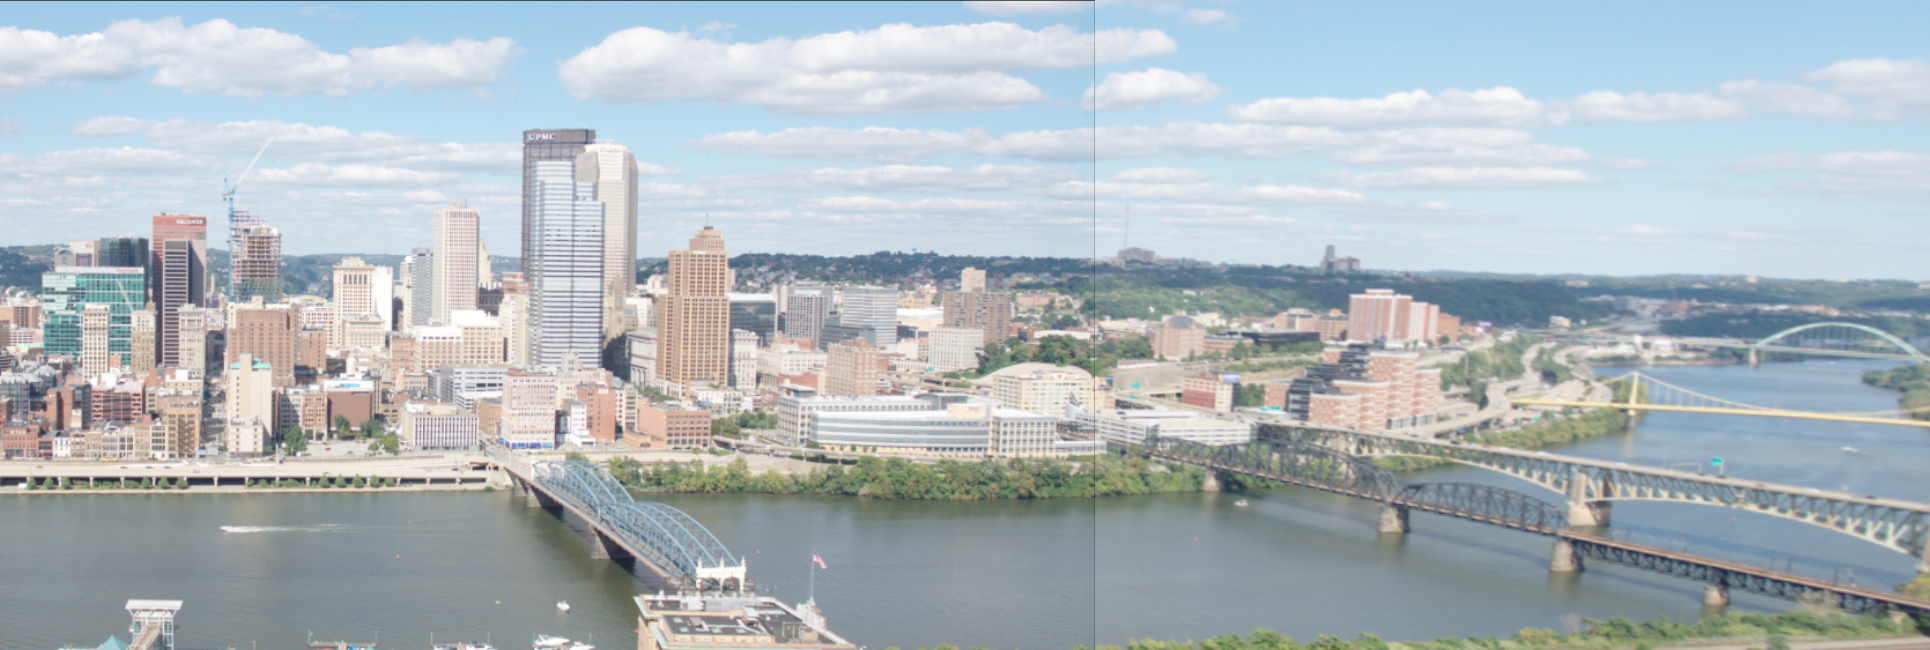
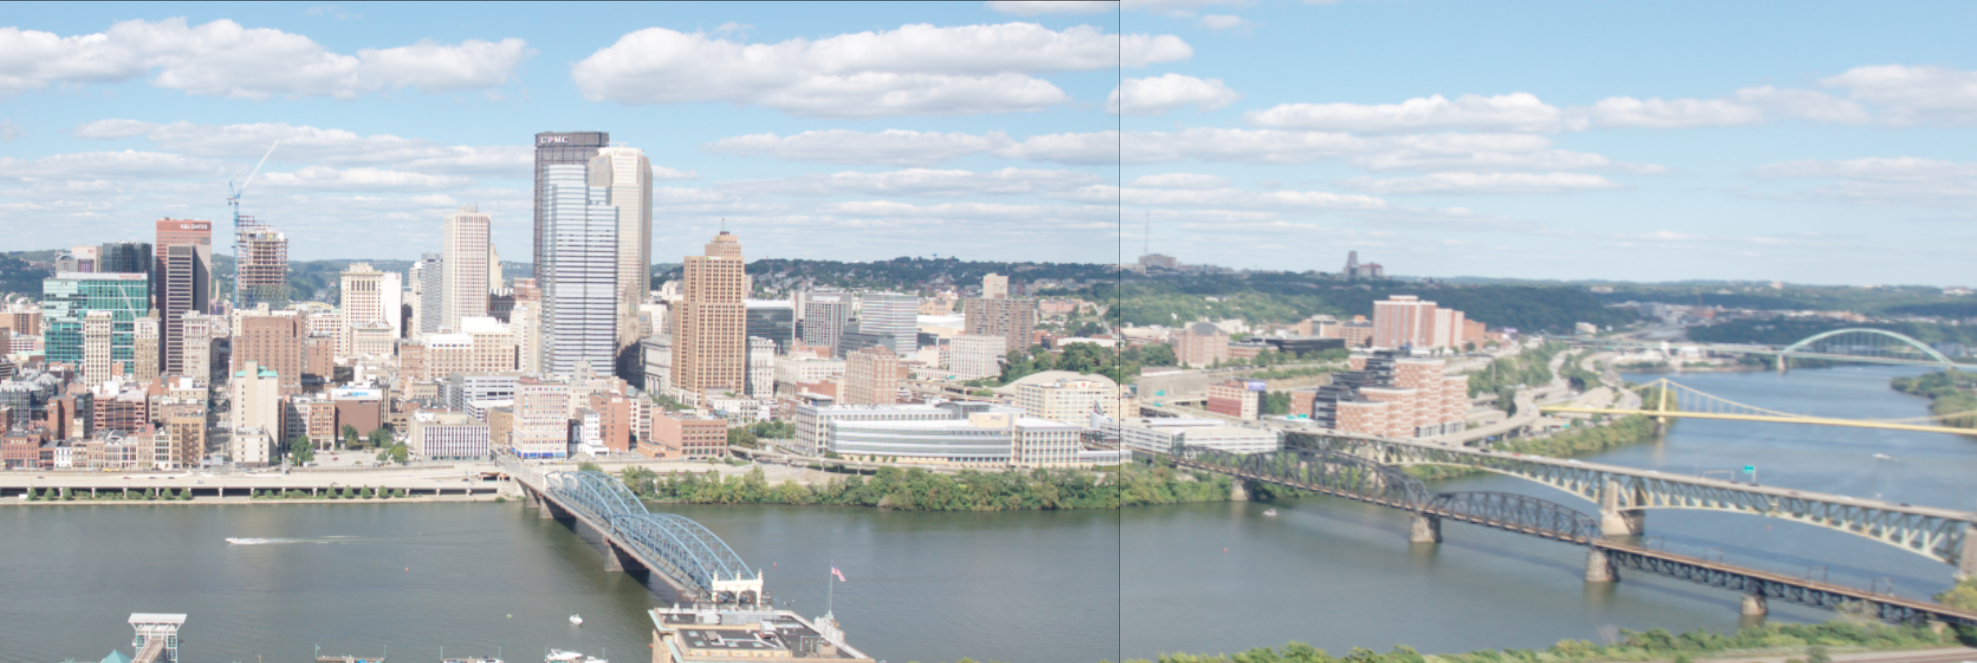
update hw2

diff --git a/hw2/code/panoramas.py b/hw2/code/panoramas.py
@@ -65,7 +65,7 @@ def imageStitching(im1, im2, H2to1):
     t_im1_corners = homogeneous_transform(im1_corners, M)
     t_im2_corners = homogeneous_transform(im2_corners, np.matmul(M, H2to1))
 
-    residue_im2_left = np.argwhere(np.sum(distance_transform_edt(residue_im[:, int(t_im1_corners[1,0])+2]), axis=-1)!=0).flatten()
+    residue_im2_left = np.argwhere(np.sum(distance_transform_edt(residue_im[:, int(t_im1_corners[1,0])+1]), axis=-1)!=0).flatten()
     top_row_point = int(np.amax(np.array([t_im1_corners[1,1],t_im2_corners[1,1], np.amin(residue_im2_left)])))
     bottom_row_point = int(np.amin(np.array([t_im1_corners[3,1],t_im2_corners[3,1],np.amax(residue_im2_left)])))
 
